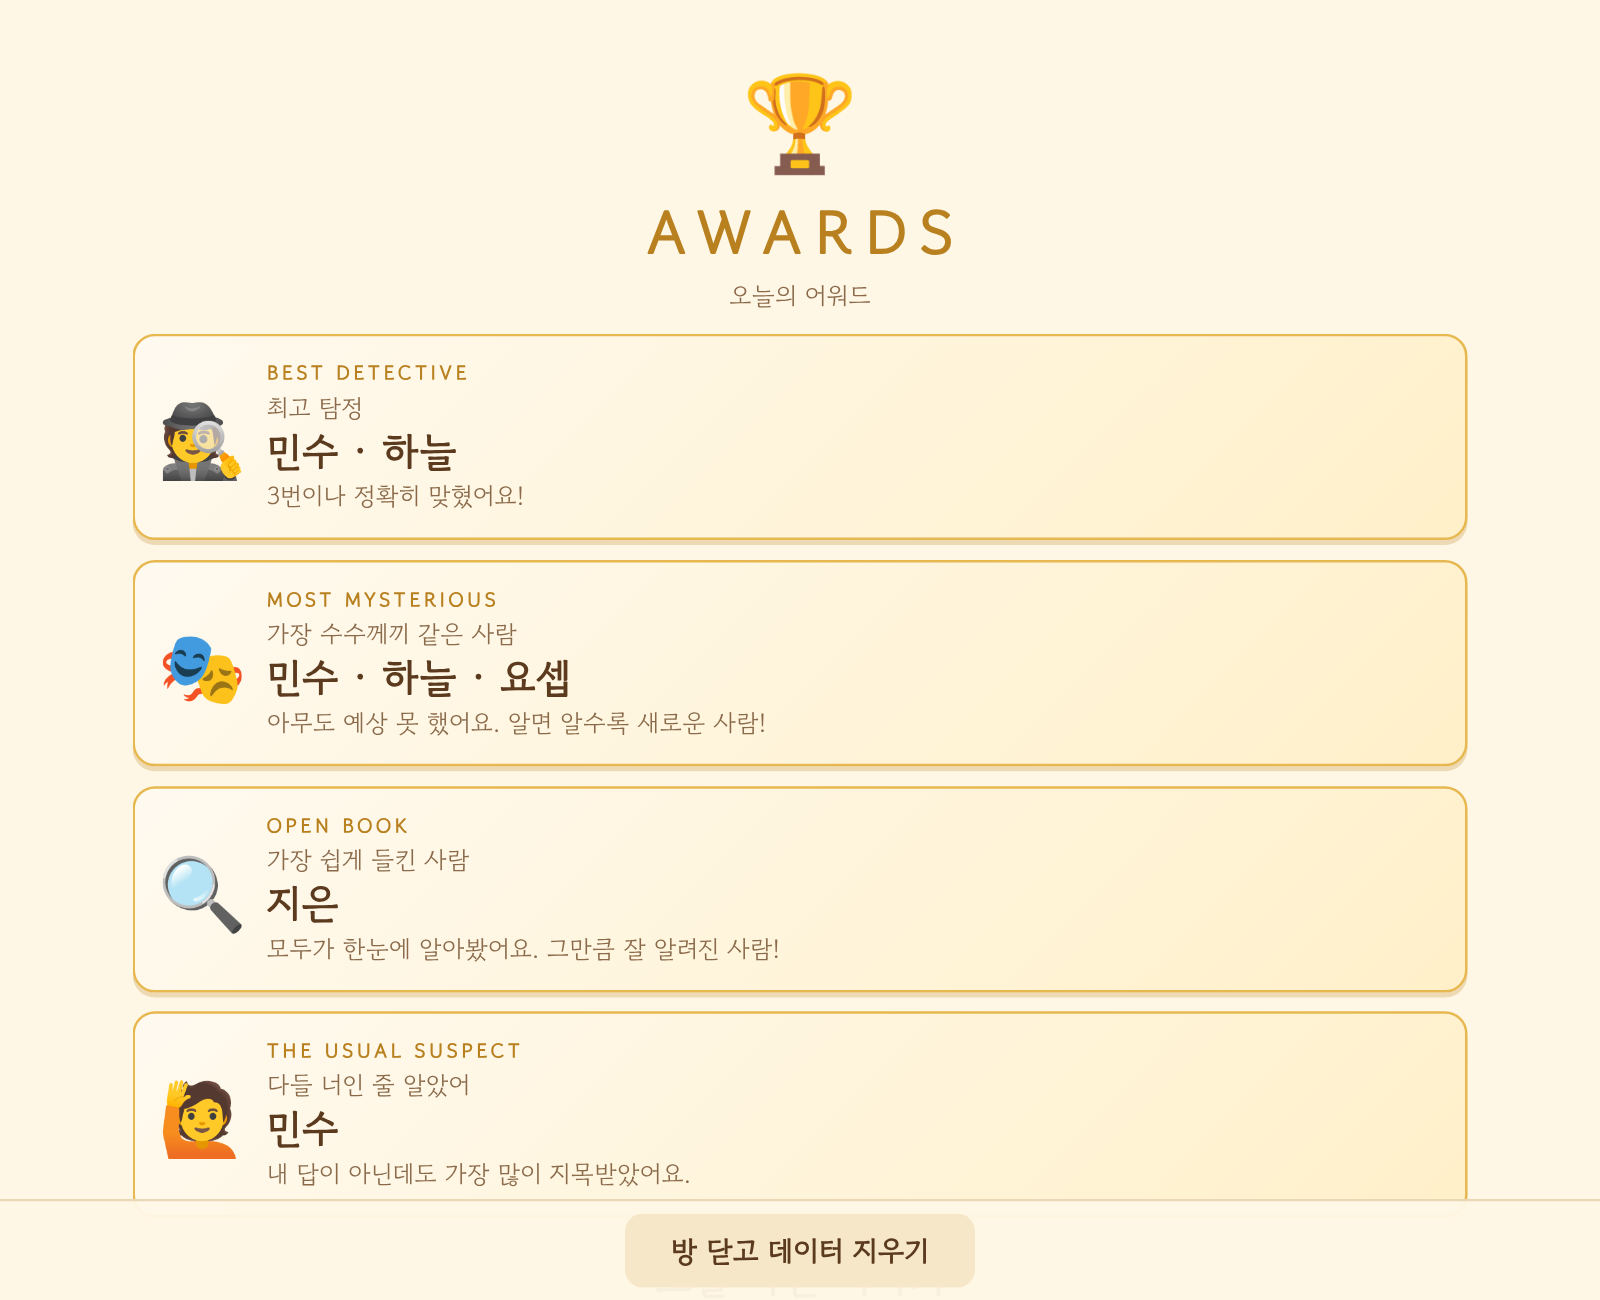
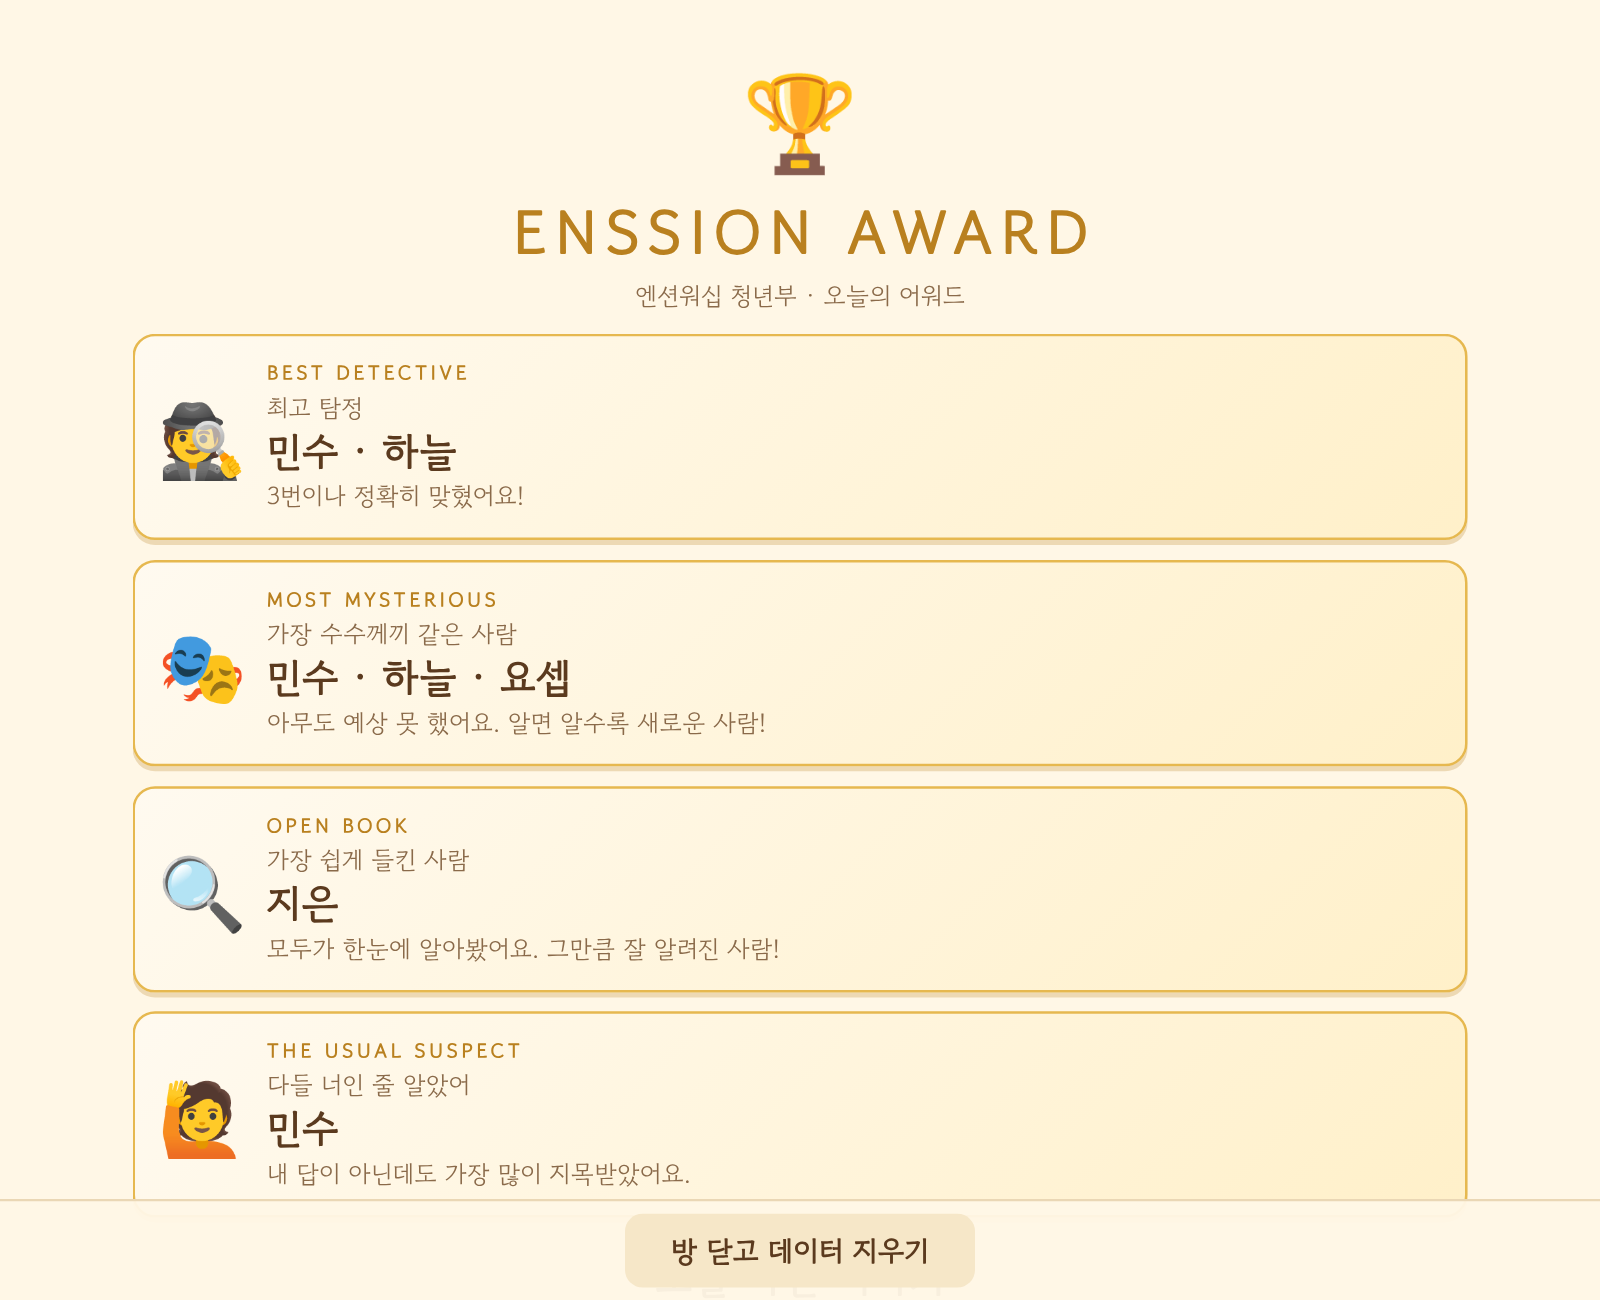
마무리 화면 제목을 ENSSION AWARD 로 변경 (엔션워십 청년부)
Claude-Session: https://claude.ai/code/session_01BAZKdM23ByJUz7jMmkbw6x

Changed region(s): [[0.3125, 0.1538, 0.6875, 0.2462]]

diff --git a/public/common.css b/public/common.css
@@ -101,7 +101,7 @@ textarea.field { min-height: 76px; resize: none; }
 /* 어워드(시상식) */
 .finale-title { position: relative; margin-top: 2vh; }
 .trophy { font-size: 3.4em; animation: pop 0.7s cubic-bezier(0.2, 1.6, 0.4, 1) both; }
-.awards-h { font-size: 2.2em; letter-spacing: 0.22em; text-indent: 0.22em; margin: 0; color: #b9801f; }
+.awards-h { font-size: clamp(1.45em, 7.2vw, 2.2em); letter-spacing: 0.14em; text-indent: 0.14em; margin: 0; color: #b9801f; white-space: nowrap; }
 .award { display: flex; gap: 16px; align-items: center; background: linear-gradient(135deg, #fffaf0, #fff0c9); border-color: #e6b84f; box-shadow: 0 4px 0 rgba(185, 128, 31, 0.25);
   animation: award-in 0.8s cubic-bezier(0.2, 1.3, 0.4, 1) both; animation-delay: calc(0.9s + var(--i) * 1.1s); }
 .award .emo { font-size: 2.6em; flex: none; }

diff --git a/public/common.js b/public/common.js
@@ -232,8 +232,8 @@ export function finaleTitle() {
     Array.from({ length: 18 }, (_, i) => h('span', { style: `left:${(i * 37) % 100}%;animation-delay:${(i % 6) * 0.35}s;animation-duration:${3.2 + (i % 5) * 0.5}s` }, bits[i % bits.length])));
   return h('div', { class: 'center finale-title' }, confetti,
     h('div', { class: 'trophy' }, '🏆'),
-    h('h1', { class: 'awards-h' }, 'AWARDS'),
-    h('p', { class: 'muted' }, '오늘의 어워드'));
+    h('h1', { class: 'awards-h' }, 'ENSSION AWARD'),
+    h('p', { class: 'muted' }, '엔션워십 청년부 · 오늘의 어워드'));
 }
 
 export function recapView(final) {

diff --git a/README.md b/README.md
@@ -6,7 +6,7 @@
 
 <p align="center">
   교회 청년부 소그룹(진모임, 한 모임 4~9명)이 <b>폰으로 서로 알아가는</b> 웹앱<br>
-  비공개로 답 쓰기 → 익명으로 맞히기 → 한마디 나눔 → <b>AWARDS</b> 🏆
+  비공개로 답 쓰기 → 익명으로 맞히기 → 한마디 나눔 → <b>ENSSION AWARD</b> 🏆
 </p>
 
 <p align="center">
@@ -23,7 +23,7 @@
 정답이 공개되면 쓴 사람이 한마디를 하고, 자연스럽게 나눔으로 이어집니다.
 
 > 목표는 **텐션이 떨어지지 않게 빠르고 가볍게**입니다. 문제 3~5개, 총 15~20분.
-> 순위표 대신 시상식 느낌의 **AWARDS**로 마무리해서, 승패로 분위기가 가라앉지 않게 했습니다.
+> 순위표 대신 시상식 느낌의 **ENSSION AWARD**로 마무리해서, 승패로 분위기가 가라앉지 않게 했습니다.
 
 | | |
 |---|---|
@@ -48,7 +48,7 @@
 |:---:|:---:|
 | <img src="docs/screenshots/10-host-guessing.png" width="420"> | <img src="docs/screenshots/12-host-reveal.png" width="420"> |
 
-| 답 쓰기 | AWARDS |
+| 답 쓰기 | ENSSION AWARD |
 |:---:|:---:|
 | <img src="docs/screenshots/06-host-writing.png" width="420"> | <img src="docs/screenshots/15-host-final.png" width="420"> |
 
@@ -64,7 +64,7 @@
 |:---:|:---:|:---:|:---:|
 | <img src="docs/screenshots/02-play-join.png" width="190"> | <img src="docs/screenshots/05-play-writing.png" width="190"> | <img src="docs/screenshots/08-play-guessing.png" width="190"> | <img src="docs/screenshots/13-play-reveal.png" width="190"> |
 
-| 제출 완료 | 내 답이 나왔을 때 (투표 불가) | 내 답이 공개됐을 때 | AWARDS |
+| 제출 완료 | 내 답이 나왔을 때 (투표 불가) | 내 답이 공개됐을 때 | ENSSION AWARD |
 |:---:|:---:|:---:|:---:|
 | <img src="docs/screenshots/07-play-submitted.png" width="190"> | <img src="docs/screenshots/09-play-guessing-author.png" width="190"> | <img src="docs/screenshots/14-play-reveal-author.png" width="190"> | <img src="docs/screenshots/16-play-final.png" width="190"> |
 
@@ -79,7 +79,7 @@
 ## 게임 흐름
 
 ```
-lobby ─시작─▶ writing ─(모두 제출 / 시간 종료)─▶ [ guessing ─▶ reveal ] × 문제 수 ─▶ final(AWARDS) ─▶ 방 자동 삭제
+lobby ─시작─▶ writing ─(모두 제출 / 시간 종료)─▶ [ guessing ─▶ reveal ] × 문제 수 ─▶ final(ENSSION AWARD) ─▶ 방 자동 삭제
  대기실        비공개로 답 쓰기                     익명 답 투표      정답 공개·한마디       시상식
 ```
 
@@ -89,9 +89,9 @@ lobby ─시작─▶ writing ─(모두 제출 / 시간 종료)─▶ [ guessin
 | **writing** | 질문 목록, 제출 현황, 타이머 | 질문 모두에 비공개로 답 쓰기 (한 칸당 80자, 비워도 됨) |
 | **guessing** | 익명 답을 큰 글씨로, 투표 인원 | "누구일까?" 투표 (내 답이면 투표 불가, 바꿔 누르면 마지막 투표만 인정) |
 | **reveal** | 🥁 두구두구 → 작성자 공개, 득표 분포, 맞힌 사람, "한마디" 안내 | 정답 · 득표 분포 |
-| **final** | 🏆 AWARDS — 어워드가 하나씩 차례로 등장 | 어워드 + 오늘 나온 이야기 모아 보기 |
+| **final** | 🏆 ENSSION AWARD — 어워드가 하나씩 차례로 등장 | 어워드 + 오늘 나온 이야기 모아 보기 |
 
-**AWARDS 종류**
+**ENSSION AWARD 종류**
 
 | 어워드 | 받는 사람 |
 |---|---|
@@ -288,7 +288,7 @@ npm run deploy
 - [ ] 진행자가 **같은 탭에서 참가**해 조작 버튼으로 시작한다
 - [ ] 같은 닉네임으로 들어가면 안내 문구가 뜬다
 - [ ] 모두 제출하면 자동으로 투표 단계로 넘어간다
-- [ ] 문제마다 투표 → 정답 공개 → 다음 문제가 끝까지 진행되고 **AWARDS**가 뜬다
+- [ ] 문제마다 투표 → 정답 공개 → 다음 문제가 끝까지 진행되고 **ENSSION AWARD**가 뜬다
 - [ ] 단톡방에 링크를 올렸을 때 **미리보기 이미지·제목**이 뜬다
 
 **익명성**
